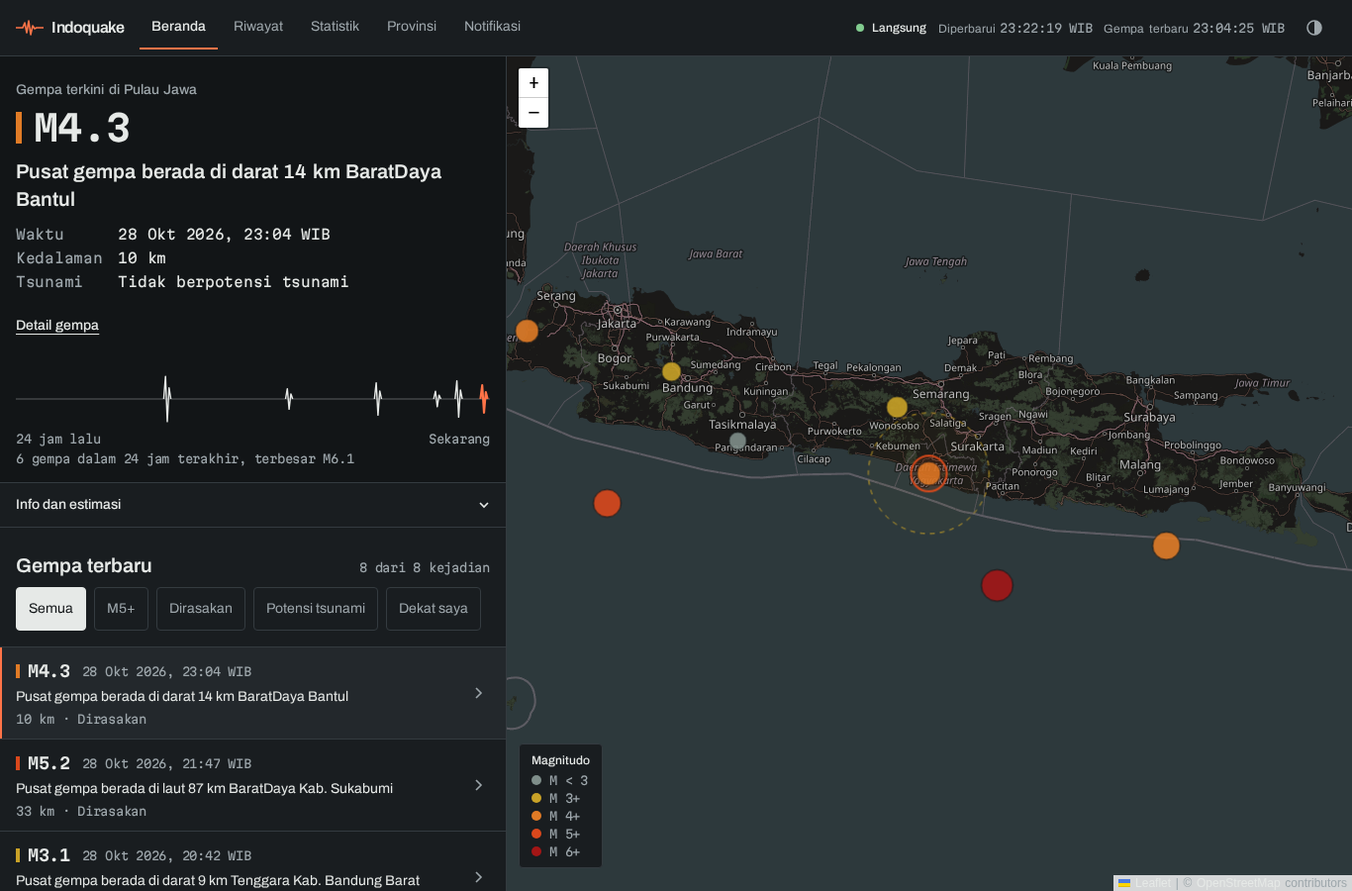
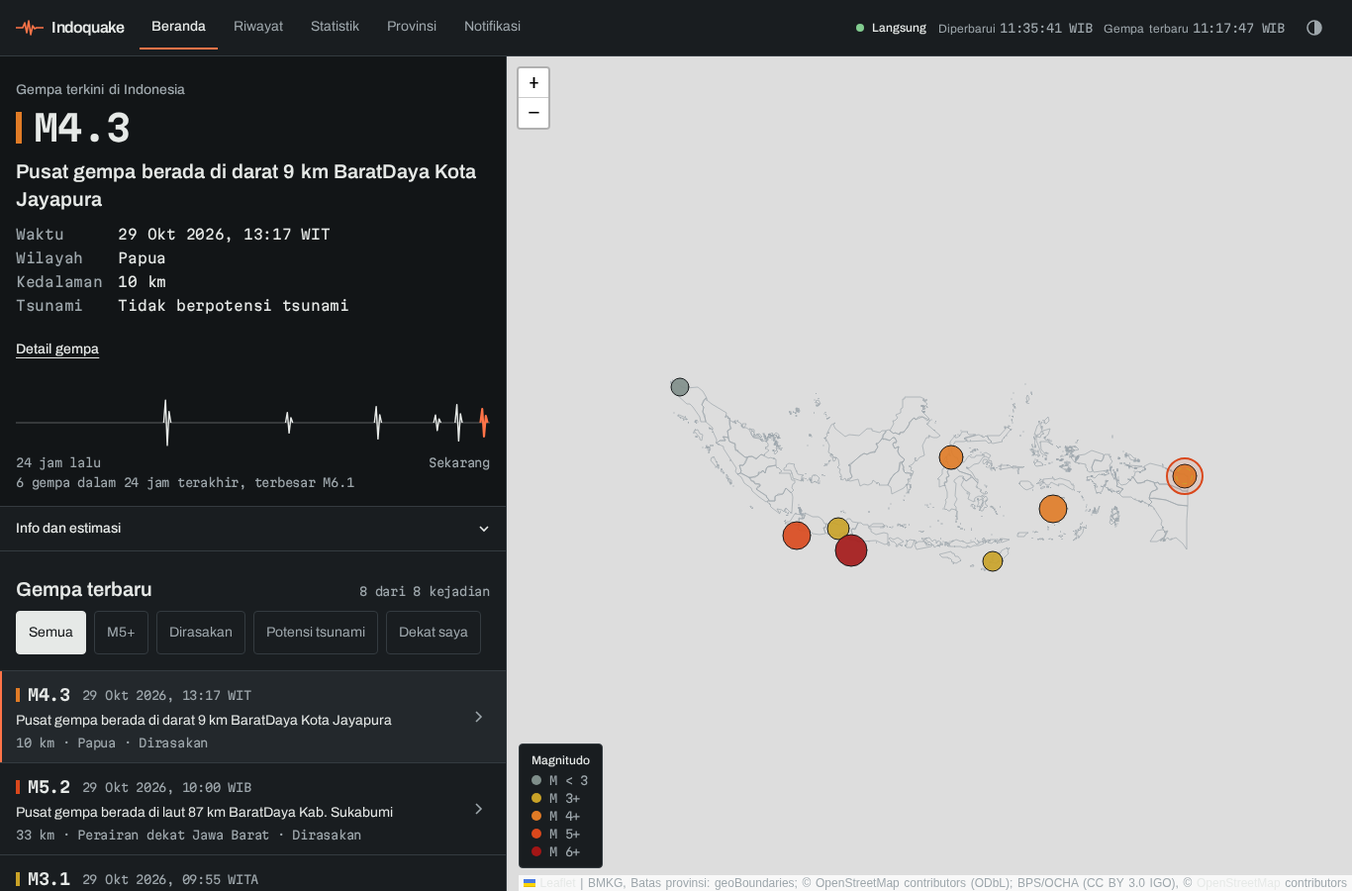
feat(r137-b): B5 README.md (ID) and README.en.md, E14, national screenshots, design notes and code map

diff --git a/apps/e2e/tests/mocked/docs.spec.ts b/apps/e2e/tests/mocked/docs.spec.ts
@@ -1,6 +1,7 @@
 import { existsSync, readFileSync } from "node:fs";
 import { join } from "node:path";
 import { expect, test } from "@playwright/test";
+import { GEOBOUNDARIES_ATTRIBUTION } from "@indoquake/shared";
 
 const ROOT = join(import.meta.dirname, "..", "..", "..", "..");
 const read = (file: string) => readFileSync(join(ROOT, file), "utf8");
@@ -9,7 +10,7 @@ const relativeLinks = (text: string) =>
   [...text.matchAll(/\]\(([^)]+)\)/g)].map((match) => match[1]).filter((href) => !/^https?:/.test(href));
 
 const EXPECTED_LINKS = [
-  "README.id.md",
+  "README.en.md",
   "docs/screenshots/home-desktop-light.png",
   "docs/screenshots/home-mobile-light.png",
   "docs/screenshots/home-desktop-dark.png",
@@ -21,12 +22,18 @@ const EXPECTED_LINKS = [
 
 test("E14 both READMEs share one heading structure", () => {
   expect(headingLevels(read("README.md"))).toEqual(["#", "##", "##", "##", "##", "##", "##"]);
-  expect(headingLevels(read("README.id.md"))).toEqual(["#", "##", "##", "##", "##", "##", "##"]);
+  expect(headingLevels(read("README.en.md"))).toEqual(["#", "##", "##", "##", "##", "##", "##"]);
 });
 
 test("E14 README links are the screenshots and docs that exist", () => {
   expect(relativeLinks(read("README.md"))).toEqual(EXPECTED_LINKS);
-  expect(relativeLinks(read("README.id.md"))).toEqual(["README.md", ...EXPECTED_LINKS.slice(1)]);
+  expect(relativeLinks(read("README.en.md"))).toEqual(["README.md", ...EXPECTED_LINKS.slice(1)]);
+});
+
+test("E14 the first content line of each README links to the other language (D13)", () => {
+  expect(read("README.md").split("\n")[2]).toBe("[English](README.en.md)");
+  expect(read("README.en.md").split("\n")[2]).toBe("[Bahasa Indonesia](README.md)");
+  expect(existsSync(join(ROOT, "README.id.md"))).toBe(false);
 });
 
 for (const file of [...EXPECTED_LINKS, "README.md"]) {
@@ -36,8 +43,10 @@ for (const file of [...EXPECTED_LINKS, "README.md"]) {
 }
 
 test("E14 both READMEs carry the live URL, BMKG terms and the safety disclaimer", () => {
-  for (const file of ["README.md", "README.id.md"]) {
+  for (const file of ["README.md", "README.en.md"]) {
     const text = read(file);
+    expect(text, file).toContain("BMKG");
+    expect(text, file).toContain(GEOBOUNDARIES_ATTRIBUTION);
     expect(text, file).toContain("https://indoquake.indonode.net");
     expect(text, file).toContain("60");
     expect(text, file).toContain("https://data.bmkg.go.id/gempabumi/");

diff --git a/apps/e2e/tests/shots/readme.spec.ts b/apps/e2e/tests/shots/readme.spec.ts
@@ -18,7 +18,20 @@ const SHOTS = [
   { name: "statistik-mobile-dark", path: "/statistik", width: 390, height: 844, scheme: "dark" },
 ] as const;
 
-for (const shot of SHOTS) {
+// SHOTS_EXTRA=1 adds the review set (R137 lane B): a non-Java province page and statistik at both sizes and schemes.
+const EXTRA = process.env.SHOTS_EXTRA === "1"
+  ? (["light", "dark"] as const).flatMap((scheme) =>
+      [
+        { width: 1366, height: 900, size: "desktop" },
+        { width: 390, height: 844, size: "mobile" },
+      ].flatMap((view) => [
+        { name: "provinsi-papua-barat-daya-" + view.size + "-" + scheme, path: "/provinsi/papua-barat-daya", width: view.width, height: view.height, scheme },
+        { name: "statistik-all-" + view.size + "-" + scheme, path: "/statistik", width: view.width, height: view.height, scheme },
+      ]),
+    )
+  : [];
+
+for (const shot of [...SHOTS, ...EXTRA]) {
   test(`shot ${shot.name}`, async ({ page }) => {
     mkdirSync(OUT, { recursive: true });
     await page.setViewportSize({ width: shot.width, height: shot.height });
@@ -31,6 +44,7 @@ for (const shot of SHOTS) {
     await emit(page, "status", status("fresh", 6));
     await expect(page.getByRole("status", { name: "Status data: Langsung" })).toBeVisible();
     await page.waitForLoadState("networkidle");
+    if (shot.path === "/") await expect(page.locator(".leaflet-container")).toHaveAttribute("data-province-layer", "38");
     if (shot.path === "/" && process.env.SHOTS_OFFLINE !== "1") {
       await expect(page.locator(".leaflet-tile-loaded").first()).toBeVisible({ timeout: 10_000 });
     }

diff --git a/apps/e2e/tests/mocked/pages.spec.ts b/apps/e2e/tests/mocked/pages.spec.ts
@@ -81,14 +81,15 @@ test("E8 provinsi lists counts, the province page lists its quakes, an unknown s
   const log = await mockApi(page, { statistics: statistics("all") });
   await page.goto("/provinsi");
   await expect(page.getByTestId("count-jawa-barat")).toHaveText("18 gempa");
-  await page.getByRole("link", { name: /Jawa Barat/ }).click();
-  await expect(page.getByRole("heading", { level: 1 })).toHaveText("Gempa Jawa Barat");
+  await expect(page.getByTestId("count-maluku")).toHaveText("5 gempa");
+  await page.locator("a[href='/provinsi/maluku']").click();
+  await expect(page.getByRole("heading", { level: 1 })).toHaveText("Gempa Maluku");
   await expect(page.locator("[data-event-key]").first()).toBeVisible();
   await expect.poll(() => log.list.map((url) => url.searchParams.get("province") ?? url.searchParams.get("nearProvince"))).toEqual(
-    expect.arrayContaining(["jawa-barat", "jawa-barat"]),
+    expect.arrayContaining(["maluku", "maluku"]),
   );
-  await expect(page.getByRole("heading", { name: "Perairan dekat Jawa Barat" })).toBeVisible();
-  await expect(page.locator("[data-event-key='4e7b10c9d2a83f66']").first()).toBeVisible();
+  await expect(page.getByRole("heading", { name: "Perairan dekat Maluku" })).toBeVisible();
+  await expect(page.locator("[data-event-key='17f2e4d6c8b0a9e1']").first()).toBeVisible();
   const response = await page.goto("/provinsi/atlantis");
   expect(response!.status()).toBe(404);
   await expect(page.getByRole("heading", { name: "Halaman tidak ditemukan" })).toBeVisible();

diff --git a/apps/e2e/tests/mocked/no-js.spec.ts b/apps/e2e/tests/mocked/no-js.spec.ts
@@ -7,7 +7,7 @@ const CASES = [
   { path: "/", main: { role: "status", name: /^Status data:/ } },
   { path: "/riwayat", main: { role: "button", name: "Terapkan" } },
   { path: "/statistik", main: { role: "navigation", name: "Periode" } },
-  { path: "/provinsi/jawa-timur", main: { role: "heading", name: "Gempa Jawa Timur" } },
+  { path: "/provinsi/papua", main: { role: "heading", name: "Gempa Papua" } },
   { path: "/provinsi/papua-barat-daya", main: { role: "heading", name: "Perairan dekat Papua Barat Daya" } },
 ] as const;
 

diff --git a/README.md b/README.md
@@ -1,80 +1,79 @@
 # Indoquake
 
-Live earthquake and tsunami status for the island of Java, built on BMKG open data. The worker polls the three BMKG feeds, stores every event, and the web app shows a new quake within about 15 seconds over Server-Sent Events, with an honest "last updated" time and a banner when BMKG data stops arriving. The interface is in Indonesian.
+[English](README.en.md)
 
-Live site: https://indoquake.indonode.net
+Status gempa bumi dan tsunami terkini untuk seluruh Indonesia (38 provinsi) dari data terbuka BMKG. Worker mengambil tiga feed BMKG, menyimpan setiap kejadian, dan aplikasi web menampilkan gempa baru dalam sekitar 15 detik lewat Server-Sent Events, dengan waktu "diperbarui" yang jujur dan banner ketika data BMKG berhenti masuk. Setiap gempa diberi provinsi bila pusatnya di darat, atau "Perairan dekat <Provinsi>" bila di laut, dan waktunya tampil dalam zona setempat (WIB, WITA, WIT). Antarmuka berbahasa Indonesia.
 
-Bahasa Indonesia: [README.id.md](README.id.md)
+Situs: https://indoquake.indonode.net
 
-## Screenshots
+## Tangkapan layar
 
-| Desktop | Phone |
+| Desktop | Ponsel |
 | --- | --- |
-| ![Home, light theme, 1366 px](docs/screenshots/home-desktop-light.png) | ![Home, light theme, 390 px](docs/screenshots/home-mobile-light.png) |
-| ![Home, dark theme, 1366 px](docs/screenshots/home-desktop-dark.png) | ![Home, dark theme, 390 px](docs/screenshots/home-mobile-dark.png) |
-| ![History with filters](docs/screenshots/riwayat-desktop-light.png) | ![Statistics, dark theme](docs/screenshots/statistik-mobile-dark.png) |
+| ![Beranda, tema terang, 1366 px](docs/screenshots/home-desktop-light.png) | ![Beranda, tema terang, 390 px](docs/screenshots/home-mobile-light.png) |
+| ![Beranda, tema gelap, 1366 px](docs/screenshots/home-desktop-dark.png) | ![Beranda, tema gelap, 390 px](docs/screenshots/home-mobile-dark.png) |
+| ![Riwayat dengan saringan](docs/screenshots/riwayat-desktop-light.png) | ![Statistik, tema gelap](docs/screenshots/statistik-mobile-dark.png) |
 
-## Architecture
+## Arsitektur
 
 ```
-BMKG open data (3 JSON feeds)
-        |  per feed: autogempa 10 s, gempaterkini 20 s, gempadirasakan 30 s
+Data terbuka BMKG (3 feed JSON)
+        |  per feed: autogempa 10 dtk, gempaterkini 20 dtk, gempadirasakan 30 dtk
         v
-apps/worker  -- dedup (60 s / 50 km), merge, revisions --> PostgreSQL (earthquakes, event_log)
+apps/worker  -- dedup (60 dtk / 50 km), gabung, revisi --> PostgreSQL (earthquakes, event_log)
         |                                                      |
         +-- Redis publish (indoquake:events) + heartbeat --+   |
                                                            v   v
 apps/web (Next.js)  /api/v1/* JSON  +  /api/v1/stream (SSE: ready, status, ping, earthquake, resync)
         |
         v
-Browser: live list and map, status indicator (Langsung / Tertunda / Terputus), history, statistics
+Browser: daftar dan peta langsung, indikator status (Langsung / Tertunda / Terputus), riwayat, statistik
 ```
 
-- `apps/web`: Next.js app router. Pages: `/`, `/riwayat`, `/statistik`, `/provinsi`, `/provinsi/[slug]`, `/gempa/[eventKey]`, `/notifikasi`. Design notes in [docs/design/README.md](docs/design/README.md).
-- `apps/worker`: BMKG poller, store, event outbox, notifications.
-- `apps/e2e`: Playwright tests (`mocked`, `full`, `shots` projects).
-- `packages/*`: BMKG parsing, database schema and migrations, earthquake maths (ETA, MMI, statistics), regions, tsunami status, notifications, shared contract types.
+- `apps/web`: Next.js app router. Halaman: `/`, `/riwayat`, `/statistik`, `/provinsi`, `/provinsi/[slug]` (38 provinsi), `/gempa/[eventKey]`, `/notifikasi`. Peta membuka seluruh nusantara; garis provinsi dan garis pantai dimuat belakangan dari `/geo/*`. Catatan desain di [docs/design/README.md](docs/design/README.md).
+- `apps/worker`: pengambil data BMKG, penyimpanan, outbox kejadian, notifikasi.
+- `apps/e2e`: tes Playwright (proyek `mocked`, `full`, `shots`).
+- `packages/*`: parsing BMKG, skema dan migrasi database, hitungan gempa (ETA, MMI, statistik), wilayah (38 provinsi, zona waktu, penentuan darat atau laut di server), status tsunami, notifikasi, tipe kontrak bersama.
 
-## Data source and BMKG terms
+## Sumber data dan ketentuan BMKG
 
-All earthquake parameters come from BMKG (Badan Meteorologi, Klimatologi, dan Geofisika) through https://data.bmkg.go.id/gempabumi/. BMKG asks for at most 60 requests per minute per IP and for BMKG to be named as the source in the app. Indoquake sends about 11 requests per minute (hard cap 30) and shows the attribution on every page. Basemap tiles: OpenStreetMap contributors; CARTO basemaps only when `NEXT_PUBLIC_CARTO_API_KEY` is set at build time.
+Semua parameter gempa berasal dari BMKG (Badan Meteorologi, Klimatologi, dan Geofisika) lewat https://data.bmkg.go.id/gempabumi/. BMKG meminta paling banyak 60 permintaan per menit per IP dan BMKG disebut sebagai sumber di aplikasi. Indoquake mengirim sekitar 11 permintaan per menit (batas keras 30) dan menampilkan atribusi di setiap halaman. Batas provinsi: geoBoundaries; © OpenStreetMap contributors (ODbL); BPS/OCHA (CC BY 3.0 IGO). Peta dasar: kontributor OpenStreetMap; peta dasar CARTO hanya jika `NEXT_PUBLIC_CARTO_API_KEY` diisi saat build.
 
-The tsunami status is taken only from BMKG's `Potensi` field. Indoquake never declares a tsunami itself. Distances, arrival times and intensities on the home page are estimates and are labelled Estimasi.
+Status tsunami hanya diambil dari kolom `Potensi` BMKG. Indoquake tidak pernah menyatakan tsunami sendiri. Jarak, waktu tiba dan intensitas di beranda adalah perkiraan dan ditandai Estimasi.
 
 ## API
 
-All responses are JSON with `Cache-Control: no-store`; errors are `{ "error": "<short Indonesian text>" }`.
+Semua respons berupa JSON dengan `Cache-Control: no-store`; galat berbentuk `{ "error": "<teks singkat>" }`.
 
-| Method | Path | Notes |
+| Metode | Path | Catatan |
 | --- | --- | --- |
-| GET | `/api/v1/earthquakes` | `limit` (1 to 500), `page`, `minMagnitude`, `maxMagnitude`, `minDepthKm`, `maxDepthKm`, `from`, `to` (ISO 8601), `felt=true`, `tsunami=true`, `province=<slug>`, `q` (2 to 60 chars), `order=desc` or `asc` |
-| GET | `/api/v1/earthquakes/[eventKey]` | detail with feeds and revisions (newest first); unknown key: 404 |
-| GET | `/api/v1/statistics` | `period=24h`, `7d`, `30d`, `1y` or `all`; `province=<slug>` |
-| GET | `/api/v1/health` | database, Redis, worker heartbeat and data freshness (`fresh`, `stale`, `down`, `unknown`) |
-| GET | `/api/v1/time`, `/api/v1/geocode`, `/api/v1/felt-locations` | server time, reverse geocoding, felt report locations |
-| POST, GET, DELETE | `/api/v1/subscriptions` | Telegram or Discord alerts; 10 per hour per IP |
-| POST | `/api/v1/subscriptions/test` | sends a sample message; 5 per minute per IP |
-| GET | `/api/v1/stream` | Server-Sent Events: `ready`, `status`, `ping` every 15 s, `earthquake` with `id`, `resync`; reconnect with `Last-Event-ID` |
+| GET | `/api/v1/earthquakes` | `limit` (1 sampai 500), `page`, `minMagnitude`, `maxMagnitude`, `minDepthKm`, `maxDepthKm`, `from`, `to` (ISO 8601), `felt=true`, `tsunami=true`, `province=<slug>` (gempa darat di provinsi itu), `nearProvince=<slug>` (gempa laut dalam 300 km dari provinsi itu), `area=land` atau `sea`, `q` (2 sampai 60 karakter), `order=desc` atau `asc` |
+| GET | `/api/v1/earthquakes/[eventKey]` | detail dengan feed dan revisi (terbaru dulu); kunci tidak dikenal: 404 |
+| GET | `/api/v1/statistics` | `period=24h`, `7d`, `30d`, `1y` atau `all`; `province=<slug>` |
+| GET | `/api/v1/area` | `lat`, `lon`: provinsi atau laut, provinsi terdekat dan zona waktu untuk satu titik |
+| GET | `/api/v1/health` | database, Redis, heartbeat worker dan kesegaran data (`fresh`, `stale`, `down`, `unknown`) |
+| GET | `/api/v1/time`, `/api/v1/geocode`, `/api/v1/felt-locations` | waktu server, geocoding balik, lokasi laporan dirasakan |
+| POST, GET, DELETE | `/api/v1/subscriptions` | notifikasi Telegram atau Discord; 10 per jam per IP |
+| POST | `/api/v1/subscriptions/test` | mengirim pesan contoh; 5 per menit per IP |
+| GET | `/api/v1/stream` | Server-Sent Events: `ready`, `status`, `ping` tiap 15 dtk, `earthquake` dengan `id`, `resync`; sambung ulang dengan `Last-Event-ID` |
 
-## Run, test and deploy
+## Menjalankan, tes dan deploy
 
 ```bash
 npm install
-npm run dev                          # web on http://localhost:3000 (needs DATABASE_URL, REDIS_URL)
-npm run dev:worker                   # BMKG poller
+npm run dev                          # web di http://localhost:3000 (butuh DATABASE_URL, REDIS_URL)
+npm run dev:worker                   # pengambil data BMKG
 npm run typecheck
 npm run lint
-npm test                             # unit tests, no browser
+npm test                             # tes unit, tanpa browser
 npm run build
-npm run e2e -w @indoquake/e2e        # Playwright, mocked API, no database needed
-npm run e2e:full -w @indoquake/e2e   # real PostGIS and Redis via Testcontainers (Docker)
-npm run e2e:shots -w @indoquake/e2e  # regenerates docs/screenshots
+npm run e2e -w @indoquake/e2e        # Playwright, API tiruan, tanpa database
+npm run e2e:full -w @indoquake/e2e   # PostGIS dan Redis asli lewat Testcontainers (Docker)
+npm run e2e:shots -w @indoquake/e2e  # membuat ulang docs/screenshots
 ```
 
-Production runs on one host with Docker Compose (web, worker, PostgreSQL with PostGIS, Redis) behind nginx and certbot: `docker compose -f deploy/compose.prod.yml --env-file .env up -d --build`. The full procedure, without host details, is in `docs/DEPLOY.md`.
+Produksi berjalan di satu host dengan Docker Compose (web, worker, PostgreSQL dengan PostGIS, Redis) di belakang nginx dan certbot: `docker compose -f deploy/compose.prod.yml --env-file .env up -d --build`. Prosedur lengkap, tanpa detail host, ada di `docs/DEPLOY.md`.
 
-## Safety
+## Keselamatan
 
 Situs ini menyajikan estimasi informasi dan bukan pengganti informasi darurat resmi. Untuk peringatan resmi gempa dan tsunami, ikuti BMKG dan pihak berwenang setempat.
-
-(This site presents estimated information and is not a substitute for official emergency information. For official earthquake and tsunami warnings, follow BMKG and local authorities.)

diff --git a/README.en.md b/README.en.md
@@ -1,0 +1,81 @@
+# Indoquake
+
+[Bahasa Indonesia](README.md)
+
+Live earthquake and tsunami status for all of Indonesia (38 provinces), built on BMKG open data. The worker polls the three BMKG feeds, stores every event, and the web app shows a new quake within about 15 seconds over Server-Sent Events, with an honest "last updated" time and a banner when BMKG data stops arriving. Every quake is placed in a province when its epicentre is on land, or "Perairan dekat <Provinsi>" (waters near a province) at sea, and its time is shown in the local zone (WIB, WITA, WIT). The interface is in Indonesian.
+
+Live site: https://indoquake.indonode.net
+
+## Screenshots
+
+| Desktop | Phone |
+| --- | --- |
+| ![Home, light theme, 1366 px](docs/screenshots/home-desktop-light.png) | ![Home, light theme, 390 px](docs/screenshots/home-mobile-light.png) |
+| ![Home, dark theme, 1366 px](docs/screenshots/home-desktop-dark.png) | ![Home, dark theme, 390 px](docs/screenshots/home-mobile-dark.png) |
+| ![History with filters](docs/screenshots/riwayat-desktop-light.png) | ![Statistics, dark theme](docs/screenshots/statistik-mobile-dark.png) |
+
+## Architecture
+
+```
+BMKG open data (3 JSON feeds)
+        |  per feed: autogempa 10 s, gempaterkini 20 s, gempadirasakan 30 s
+        v
+apps/worker  -- dedup (60 s / 50 km), merge, revisions --> PostgreSQL (earthquakes, event_log)
+        |                                                      |
+        +-- Redis publish (indoquake:events) + heartbeat --+   |
+                                                           v   v
+apps/web (Next.js)  /api/v1/* JSON  +  /api/v1/stream (SSE: ready, status, ping, earthquake, resync)
+        |
+        v
+Browser: live list and map, status indicator (Langsung / Tertunda / Terputus), history, statistics
+```
+
+- `apps/web`: Next.js app router. Pages: `/`, `/riwayat`, `/statistik`, `/provinsi`, `/provinsi/[slug]` (38 provinces), `/gempa/[eventKey]`, `/notifikasi`. The map opens on the whole archipelago; province outlines and the coastline load later from `/geo/*`. Design notes in [docs/design/README.md](docs/design/README.md).
+- `apps/worker`: BMKG poller, store, event outbox, notifications.
+- `apps/e2e`: Playwright tests (`mocked`, `full`, `shots` projects).
+- `packages/*`: BMKG parsing, database schema and migrations, earthquake maths (ETA, MMI, statistics), regions (38 provinces, time zones, land or sea assignment on the server), tsunami status, notifications, shared contract types.
+
+## Data source and BMKG terms
+
+All earthquake parameters come from BMKG (Badan Meteorologi, Klimatologi, dan Geofisika) through https://data.bmkg.go.id/gempabumi/. BMKG asks for at most 60 requests per minute per IP and for BMKG to be named as the source in the app. Indoquake sends about 11 requests per minute (hard cap 30) and shows the attribution on every page. Province boundaries (credit as shown in the app): Batas provinsi: geoBoundaries; © OpenStreetMap contributors (ODbL); BPS/OCHA (CC BY 3.0 IGO). Basemap tiles: OpenStreetMap contributors; CARTO basemaps only when `NEXT_PUBLIC_CARTO_API_KEY` is set at build time.
+
+The tsunami status is taken only from BMKG's `Potensi` field. Indoquake never declares a tsunami itself. Distances, arrival times and intensities on the home page are estimates and are labelled Estimasi.
+
+## API
+
+All responses are JSON with `Cache-Control: no-store`; errors are `{ "error": "<short Indonesian text>" }`.
+
+| Method | Path | Notes |
+| --- | --- | --- |
+| GET | `/api/v1/earthquakes` | `limit` (1 to 500), `page`, `minMagnitude`, `maxMagnitude`, `minDepthKm`, `maxDepthKm`, `from`, `to` (ISO 8601), `felt=true`, `tsunami=true`, `province=<slug>` (land quakes in that province), `nearProvince=<slug>` (sea quakes within 300 km of it), `area=land` or `sea`, `q` (2 to 60 chars), `order=desc` or `asc` |
+| GET | `/api/v1/earthquakes/[eventKey]` | detail with feeds and revisions (newest first); unknown key: 404 |
+| GET | `/api/v1/statistics` | `period=24h`, `7d`, `30d`, `1y` or `all`; `province=<slug>` |
+| GET | `/api/v1/area` | `lat`, `lon`: province or sea, nearest province and time zone for one point |
+| GET | `/api/v1/health` | database, Redis, worker heartbeat and data freshness (`fresh`, `stale`, `down`, `unknown`) |
+| GET | `/api/v1/time`, `/api/v1/geocode`, `/api/v1/felt-locations` | server time, reverse geocoding, felt report locations |
+| POST, GET, DELETE | `/api/v1/subscriptions` | Telegram or Discord alerts; 10 per hour per IP |
+| POST | `/api/v1/subscriptions/test` | sends a sample message; 5 per minute per IP |
+| GET | `/api/v1/stream` | Server-Sent Events: `ready`, `status`, `ping` every 15 s, `earthquake` with `id`, `resync`; reconnect with `Last-Event-ID` |
+
+## Run, test and deploy
+
+```bash
+npm install
+npm run dev                          # web on http://localhost:3000 (needs DATABASE_URL, REDIS_URL)
+npm run dev:worker                   # BMKG poller
+npm run typecheck
+npm run lint
+npm test                             # unit tests, no browser
+npm run build
+npm run e2e -w @indoquake/e2e        # Playwright, mocked API, no database needed
+npm run e2e:full -w @indoquake/e2e   # real PostGIS and Redis via Testcontainers (Docker)
+npm run e2e:shots -w @indoquake/e2e  # regenerates docs/screenshots
+```
+
+Production runs on one host with Docker Compose (web, worker, PostgreSQL with PostGIS, Redis) behind nginx and certbot: `docker compose -f deploy/compose.prod.yml --env-file .env up -d --build`. The full procedure, without host details, is in `docs/DEPLOY.md`.
+
+## Safety
+
+Situs ini menyajikan estimasi informasi dan bukan pengganti informasi darurat resmi. Untuk peringatan resmi gempa dan tsunami, ikuti BMKG dan pihak berwenang setempat.
+
+(This site presents estimated information and is not a substitute for official emergency information. For official earthquake and tsunami warnings, follow BMKG and local authorities.)

diff --git a/docs/design/CODEMAP.md b/docs/design/CODEMAP.md
@@ -10,9 +10,16 @@
 - apps/web/src/lib/map-tiles.ts: basemap per theme (Carto with NEXT_PUBLIC_CARTO_API_KEY, else OSM + tile-pane filter).
 - apps/web/src/lib/sentence-case.ts: sentence case for upstream labels (tsunami status).
 - apps/web/src/lib/merge-event.ts: field-wise merge of stream frames into the list.
-- apps/web/src/lib/history-query.ts: /riwayat URL params to API params; lib/wib.ts: WIB formatting and day bounds.
+- apps/web/src/lib/history-query.ts: /riwayat URL params to API params (province, area); WIB day bounds come from @indoquake/regions/meta.
+- apps/web/src/lib/event-time.ts: an event's times in its own zone (WIB/WITA/WIT) and its server area label; all zone maths lives in @indoquake/regions/meta (client code never imports the bare "@indoquake/regions").
+- apps/web/src/app/api/v1/area/route.ts: GET /api/v1/area (describeLocation, server only); lib/use-area.ts: the user's zone for ETA times.
+- apps/web/src/lib/province-layer.ts: lazy /geo province outlines (national layer, up to 3 detailed outlines from zoom 7, single province for /provinsi/[slug]) and the data-view / data-bounds / data-province-layer hooks.
+- apps/web/src/lib/coastline.ts + use-coast-distance.ts: /geo/garis-pantai.json loaded once a user location exists; distance to the coast.
+- apps/web/src/lib/provincial-capitals.ts: the 38 capitals for the location panel select.
+- apps/web/src/components/province-view.tsx: province page body (land list, nearby sea list, lazy map); province-list.tsx: /provinsi grouped by island group.
+- apps/web/src/app/opengraph-image.tsx: code-generated 1200x630 share image; app/sitemap.ts: nav URLs plus 38 province pages.
 - apps/web/src/lib/use-api.ts: keyed GET hook with loading, error, retry.
 - apps/web/scripts/check-bundle.mjs: home bundle budget; scripts/sync-fonts.mjs: copies fontsource woff2 into src/lib/fonts.
-- apps/e2e/support/: fixtures, API mock, EventSource stub, layout-shift recorder; scripts/stack.mjs: Testcontainers stack, migrate, seed.
+- apps/e2e/support/: national fixtures (literal server assignments, checked by scripts/fixtures-area.test.ts), API mock (incl. /api/v1/area, nearProvince, area), EventSource stub, layout-shift recorder; scripts/stack.mjs: Testcontainers stack, migrate, national seed (seedRows, checked by scripts/seed.test.mjs).
 - apps/e2e/scripts/web-server.mjs: starts `next start` in its own process group for run-full.mjs and serve.mjs; stops the whole group on every exit path (tests: scripts/web-server.test.mjs).
 - apps/e2e/tests/{mocked,full,shots}/: Playwright projects (mocked runs anywhere, full needs Docker, shots writes docs/screenshots).

diff --git a/docs/design/README.md b/docs/design/README.md
@@ -1,7 +1,8 @@
 # Indoquake web design notes
 
-Purpose: show the newest quakes on Java and whether BMKG data is current, fast enough to read on a phone in the first seconds after shaking.
-Audience: residents of Java on phones (390 px first), plus people checking history and statistics on desktop.
+Purpose: show the newest quakes anywhere in Indonesia (38 provinces and the seas around them) and whether BMKG data is current, fast enough to read on a phone in the first seconds after shaking. Times show in the event's zone (WIB, WITA, WIT).
+Audience: people across Indonesia on phones (390 px first), plus people checking history and statistics on desktop.
+Map (R137): opens on the whole archipelago (fit to INDONESIA_BOUNDS in the fixed-height container); thin neutral province outlines, no fill, in a pane under the quake markers, loaded after the map exists; the user's area view only when location permission is already granted or after the location control.
 Direction: seismograph field station. Paper and graphite surfaces, thin rules instead of boxes, one signal colour, monospaced tabular figures for every number.
 Differentiator: the 24 hour seismogram strip under the latest quake, one spike per real event, height by magnitude.
 
